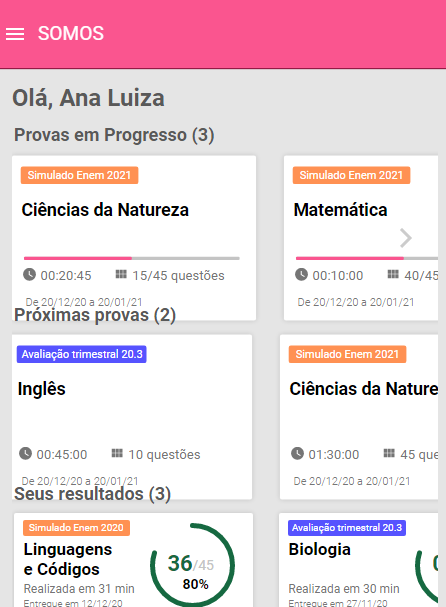
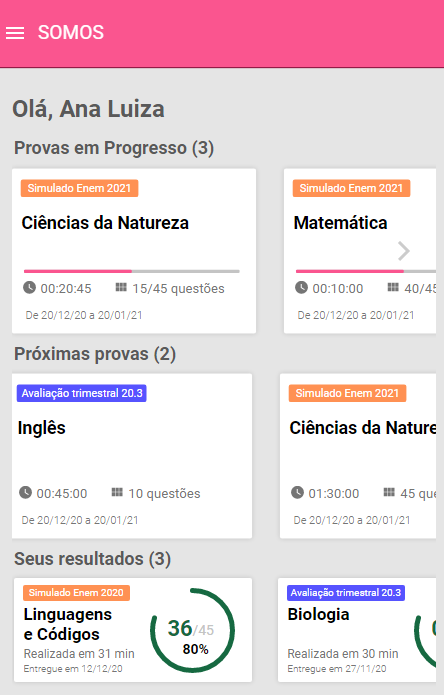
New Files

diff --git a/src/components/Proof/ScreenProof/styles.ts b/src/components/Proof/ScreenProof/styles.ts
@@ -296,7 +296,7 @@ export const Questions = styled.div`
         @media (max-width: 600px) { width: 30px;}
 
         p {
-          height: 22px;
+          padding: 22px;
         }
       }
 
